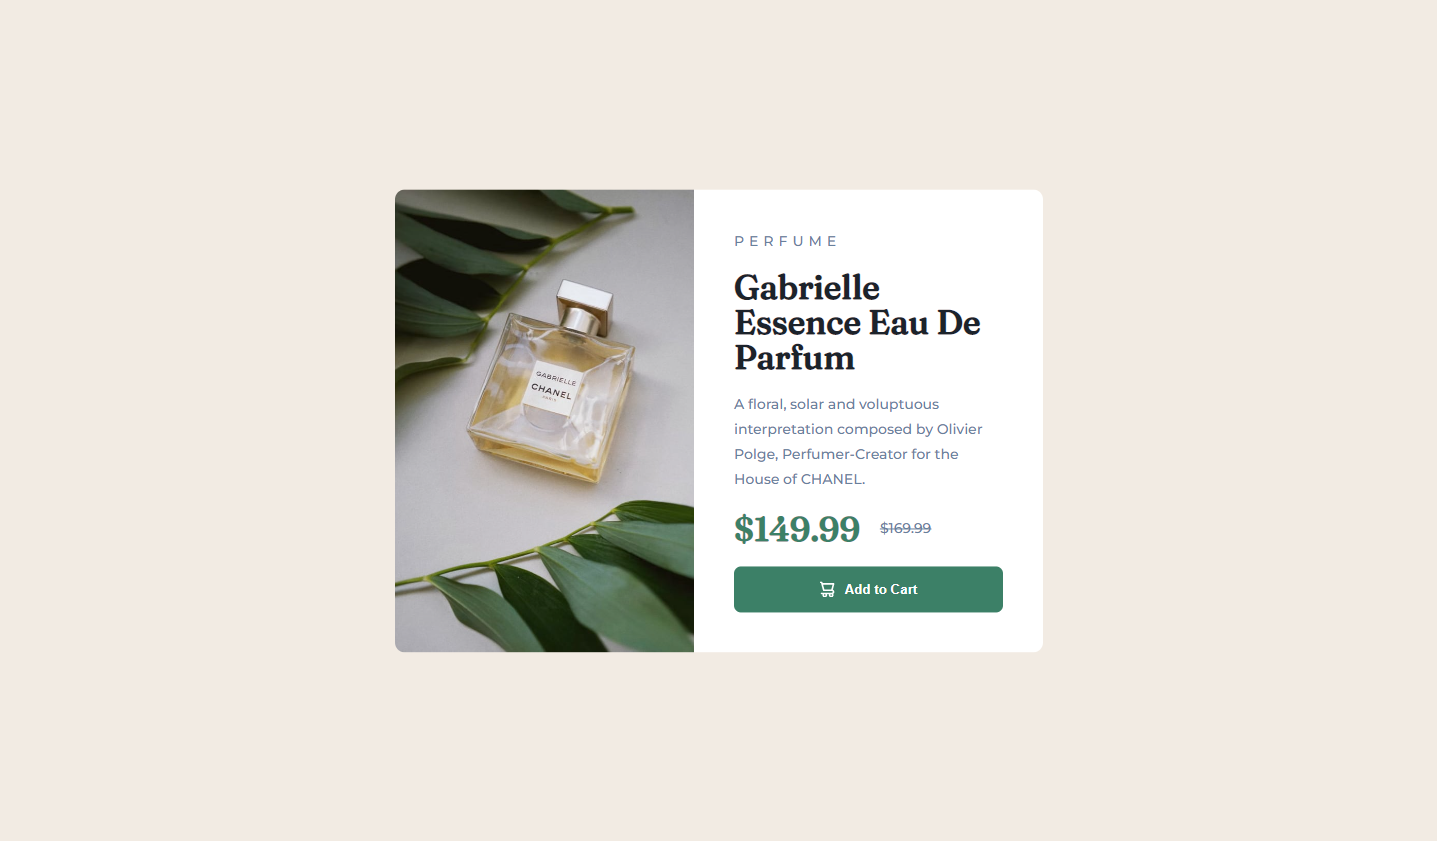
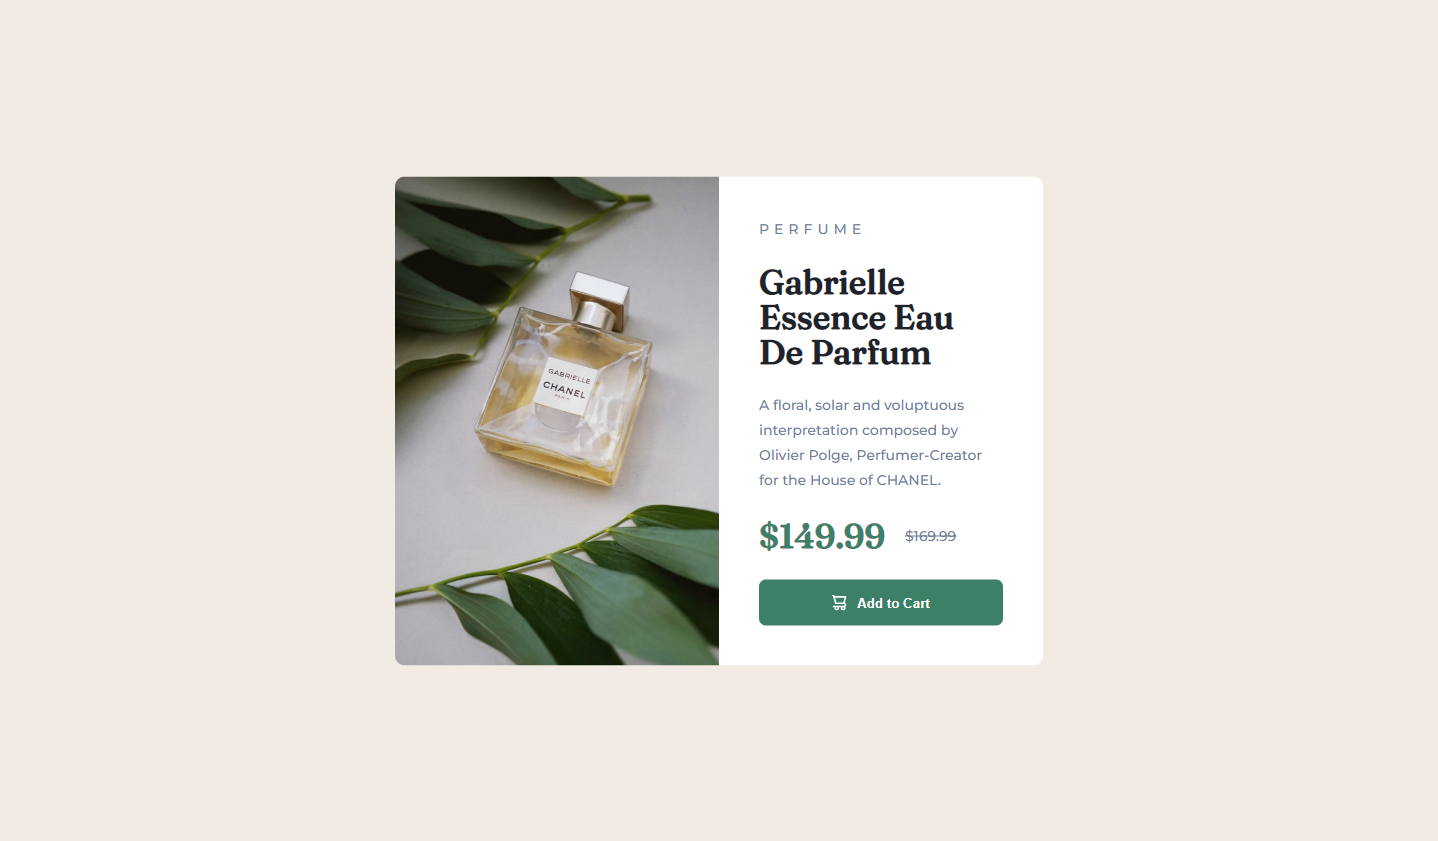
cleanup

Changed region(s): [[0.2756, 0.1855, 0.7349, 0.8038]]

diff --git a/index.html b/index.html
@@ -28,11 +28,7 @@
       </div>
       <div class="card-info">
         <p id="perfume">PERFUME</p>
-        <h1>
-          Gabrielle
-          Essence Eau
-          De Parfum
-        </h1>
+        <h1>Gabrielle Essence Eau De Parfum</h1>
         <p>
           A floral, solar and voluptuous interpretation composed by Olivier
           Polge, Perfumer-Creator for the House of CHANEL.

diff --git a/styles/style.css b/styles/style.css
@@ -63,7 +63,6 @@ p {
   justify-content: space-between;
   padding: 4rem;
   background: hsl(0deg, 0%, 100%);
-  flex: 1 1 25rem;
 }
 .card-container .card-info #perfume {
   letter-spacing: 0.5rem;
@@ -106,7 +105,7 @@ p {
   margin-left: 2rem;
 }
 
-@media screen and (min-width: 1441px) {
+@media screen and (min-width: 1555px) {
   .card-container .card-info {
     padding: 6rem 4em;
   }

diff --git a/styles/style.scss b/styles/style.scss
@@ -7,7 +7,7 @@ $paragraph: 14px;
 @import "./global";
 @import "./card";
 
-@media screen and (min-width: 1441px) {
+@media screen and (min-width: 1555px) {
   .card-container .card-info {
     padding: 6rem 4em;
   }
@@ -15,7 +15,6 @@ $paragraph: 14px;
   .card-container .card-image {
     flex: 1 1 36.9rem;
   }
-
 }
 
 @media screen and (max-width: 1095px) {

diff --git a/styles/_card.scss b/styles/_card.scss
@@ -69,7 +69,6 @@
 
     padding: 4rem;
     background: $white;
-    flex: 1 1 25rem;
   }
 
   .card-price {
